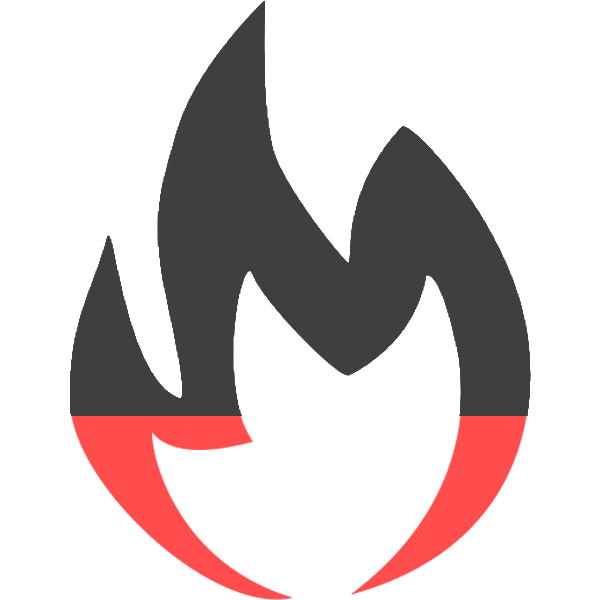
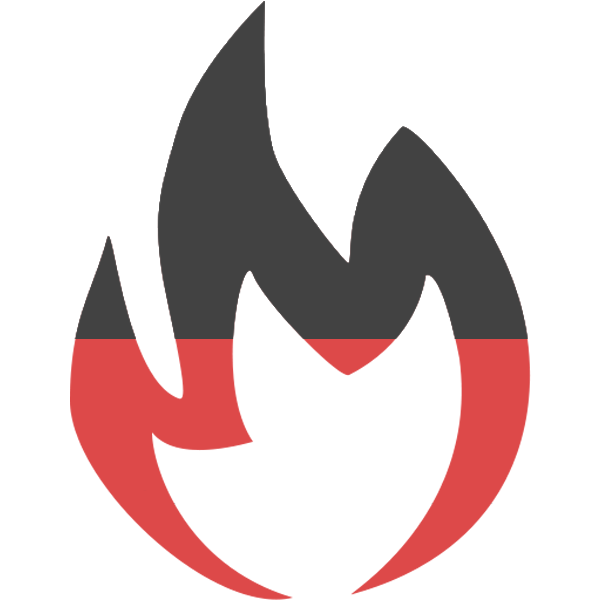
add excalamation point for interest-btn

Changed region(s): [[0.09, 0.54, 0.48, 1.0], [0.6, 0.54, 0.9, 0.99], [0.51, 0.54, 0.66, 0.63]]

diff --git a/profile1.html b/profile1.html
@@ -144,7 +144,7 @@
                                         </div>
                                         <div class="card-btn-container">
                                             <div class="card-btn">
-                                                <img class="lit-rating" src="img/really-lit.png" alt="It's lit">
+                                                <img class="lit-rating" src="img/full-lit.png" alt="It's lit">
                                             </div>
                                             <div class="dropup-container">
                                                 <div class="dropup div-inline">

diff --git a/css/icon.css b/css/icon.css
@@ -18,6 +18,10 @@
     background-image: url('../img/checkmark.png');
 }
 
+.icon-exclamation {
+    background-image: url('../img/exclamation.png');
+}
+
 @media only screen and (max-width: 767px){
     .card-icon {
         height: 27px;

diff --git a/home.php b/home.php
@@ -80,7 +80,7 @@
                                         </div>
                                         <div class="card-btn-container">
                                             <div class="card-btn">
-                                                <img class="lit-rating" src="img/really-lit.png" alt="It's lit">
+                                                <img class="lit-rating" src="img/full-lit.png" alt="It's lit">
                                             </div>
                                             <div class="dropup-container">
                                                 <div class="dropup div-inline">
@@ -161,7 +161,7 @@
                                             <div class="dropup-container">
                                                 <div class="dropup div-inline">
                                                     <button class="btn card-btn interest-btn dropdown-toggle" type="button" id="dropdownMenuButton" data-toggle="dropdown" aria-haspopup="true" aria-expanded="false">
-                                                        <i id="event-interest" class="card-icon icon-star-grey"></i>
+                                                        <i id="event-interest" class="card-icon icon-exclamation"></i>
                                                     </button>
                                                     <div class="dropdown-menu dropdown-menu-right" aria-labelledby="dropdownMenuButton">
                                                         <a class="interest-item not-interested">Not Interested</a>
@@ -217,7 +217,7 @@
                                                 <div class="dropup-container">
                                                     <div class="dropup div-inline">
                                                         <button class="btn card-btn interest-btn dropdown-toggle" type="button" id="dropdownMenuButton" data-toggle="dropdown" aria-haspopup="true" aria-expanded="false">
-                                                            <i id="event-interest" class="card-icon icon-star-grey"></i>
+                                                            <i id="event-interest" class="card-icon icon-exclamation"></i>
                                                         </button>
                                                         <div class="dropdown-menu dropdown-menu-right" aria-labelledby="dropdownMenuButton">
                                                             <a class="interest-item not-interested">Not Interested</a>
@@ -272,7 +272,7 @@
                                             <div class="dropup-container">
                                                 <div class="dropup div-inline">
                                                     <button class="btn card-btn interest-btn dropdown-toggle" type="button" id="dropdownMenuButton" data-toggle="dropdown" aria-haspopup="true" aria-expanded="false">
-                                                        <i id="event-interest" class="card-icon icon-star-grey"></i>
+                                                        <i id="event-interest" class="card-icon icon-exclamation"></i>
                                                     </button>
                                                     <div class="dropdown-menu dropdown-menu-right" aria-labelledby="dropdownMenuButton">
                                                         <a class="interest-item not-interested">Not Interested</a>

diff --git a/explore.php b/explore.php
@@ -193,7 +193,7 @@
                                             <div class="dropup-container">
                                                 <div class="dropup div-inline">
                                                     <button class="btn card-btn interest-btn dropdown-toggle" type="button" id="dropdownMenuButton" data-toggle="dropdown" aria-haspopup="true" aria-expanded="false">
-                                                        <i id="event-interest" class="card-icon icon-star-grey"></i>
+                                                        <i id="event-interest" class="card-icon icon-exclamation"></i>
                                                     </button>
                                                     <div class="dropdown-menu dropdown-menu-right" aria-labelledby="dropdownMenuButton">
                                                         <a class="interest-item not-interested">Not Interested</a>
@@ -341,7 +341,7 @@
                                             <div class="dropup-container">
                                                 <div class="dropup div-inline">
                                                     <button class="btn card-btn interest-btn dropdown-toggle" type="button" id="dropdownMenuButton" data-toggle="dropdown" aria-haspopup="true" aria-expanded="false">
-                                                        <i id="event-interest" class="card-icon icon-star-grey"></i>
+                                                        <i id="event-interest" class="card-icon icon-exclamation"></i>
                                                     </button>
                                                     <div class="dropdown-menu dropdown-menu-right" aria-labelledby="dropdownMenuButton">
                                                         <a class="interest-item not-interested">Not Interested</a>

diff --git a/profile.php b/profile.php
@@ -154,7 +154,7 @@
                                         </div>
                                         <div class="card-btn-container">
                                             <div class="card-btn">
-                                                <img class="lit-rating" src="img/really-lit.png" alt="It's lit">
+                                                <img class="lit-rating" src="img/full-lit.png" alt="It's lit">
                                             </div>
                                             <div class="dropup-container">
                                                 <div class="dropup div-inline">
